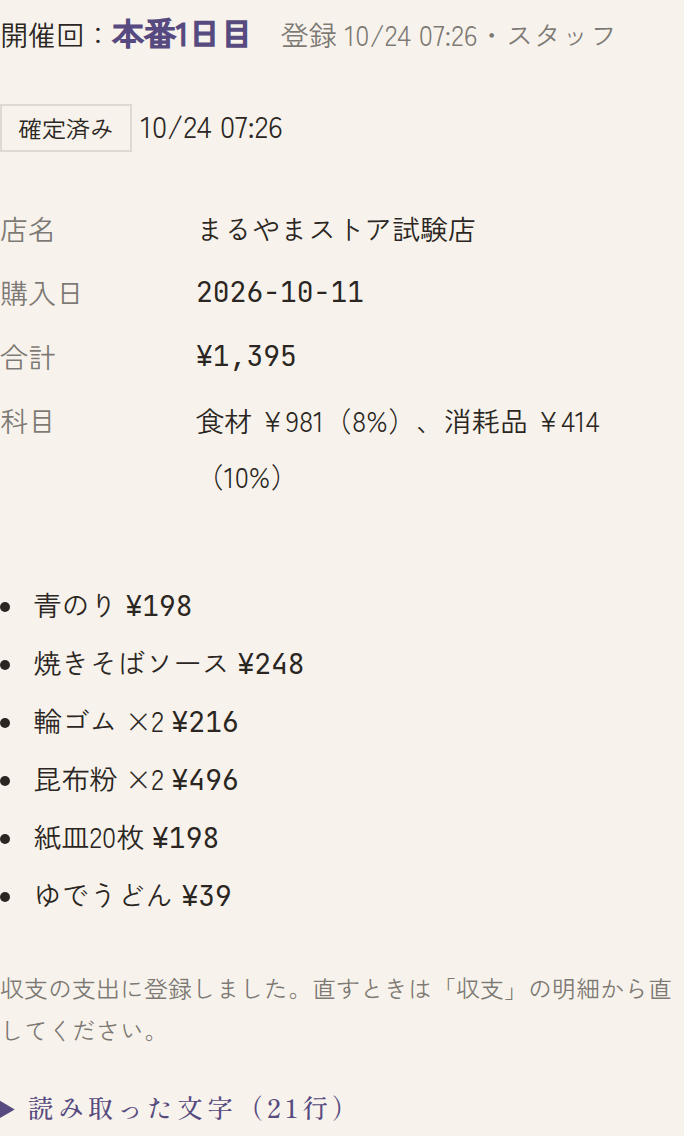
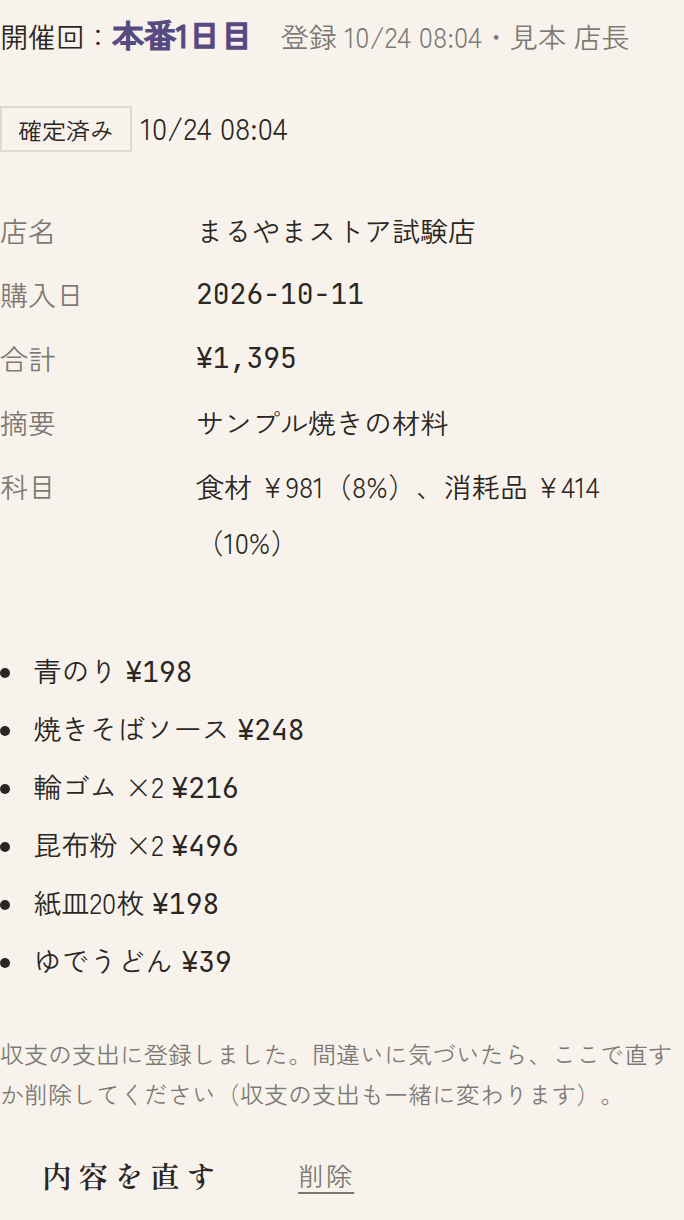
マニュアル: 確定したレシートをレシートの画面で直す・消す手順にする
- receipts.html に「確定したレシートを直す・消す」（#fix）を足し、確定済みの画面を撮り直す・直す欄の画面を足す
- よくある質問・収支の画面の「レシートの支出は収支の明細から直す」を、レシートの画面で直す手順に変える

diff --git a/public/manual/faq.html b/public/manual/faq.html
@@ -29,7 +29,7 @@
     <summary>練習で登録した支出は、学校に出す書類に入りますか？</summary>
     <div>
       <p><strong>入りません。</strong>練習の開催回に入れた支出・収入とレシートは、収支報告（本番の合計）にも、Excel・ZIP にも入りません。</p>
-      <p>練習のときに買ったものでも、本番で使う材料なら、本番の開催回を選んで登録してください。練習の開催回を選んで登録してしまったときは、収支の明細で消して、本番の開催回で入れ直します（レシートは店長に相談してください）。</p>
+      <p>練習のときに買ったものでも、本番で使う材料なら、本番の開催回を選んで登録してください。練習の開催回を選んで登録してしまったときは、手で入れた支出は収支の明細で消して本番の開催回で入れ直し、レシートはレシートの画面で削除して、本番の開催回を選んで送り直します（→ <a href="receipts.html#fix">確定したレシートを直す・消す</a>）。</p>
     </div>
   </details>
   <details id="q-day" open>
@@ -42,10 +42,10 @@
   <details id="q-fix" open>
     <summary>間違えて確定したレシートは直せますか？</summary>
     <div>
-      <p><strong>直せます。</strong>確定したレシートそのものは画面で直せませんが、確定すると収支の支出になっているので、<strong>収支の明細から直します</strong>（→ <a href="ledger.html#edit">直す・消す</a>）。</p>
+      <p><strong>直せます。</strong>レシートの画面でそのレシートを開いて直します（→ <a href="receipts.html#fix">確定したレシートを直す・消す</a>）。収支の支出も一緒に変わります。</p>
       <ul>
-        <li><strong>金額・科目が違う</strong>: 収支の明細で、そのレシートの支出（摘要に店名が入っています）の <span class="ui">直す</span> を押して直します。</li>
-        <li><strong>登録すべきでなかった</strong>（二重に登録したなど）: 収支の明細で、そのレシートの支出を <span class="ui">削除</span> します。税率ごとに分けたレシートは、行ごとに支出があるので、すべて消してください。</li>
+        <li><strong>金額・科目・店名などが違う</strong>: <span class="ui">内容を直す</span> を押して直し、<span class="ui">直した内容で保存</span>。</li>
+        <li><strong>登録すべきでなかった</strong>（二重に登録したなど）: <span class="ui">削除</span>。収支の支出も一緒に消えます（税率ごとに分けた分もすべて）。</li>
       </ul>
       <p>受け付けを締め切った開催回は直せないので、運営に連絡してください。</p>
     </div>

diff --git a/public/manual/receipts.html b/public/manual/receipts.html
@@ -177,10 +177,24 @@
   <h2>確定する</h2>
   <p>ぜんぶ確かめたら <span class="ui">確定して収支に登録</span> を押します。「確定し、収支の支出に登録しました。」と出たら完了です。</p>
   <figure class="phone">
-    <a href="img/m-receipt-confirmed.png"><img src="img/m-receipt-confirmed.png" width="684" height="1136" alt="確定済みのレシート。店名、購入日、合計、科目（食材と消耗品の内訳）、品目" loading="lazy"></a>
+    <a href="img/m-receipt-confirmed.png"><img src="img/m-receipt-confirmed.png" width="684" height="1220" alt="確定済みのレシート。店名、購入日、合計、科目（食材と消耗品の内訳）、品目" loading="lazy"></a>
     <figcaption>確定したレシート</figcaption>
   </figure>
-  <p>確定したレシートは、もう画面では直せません。金額や科目を直すときは、収支の明細から直します（→ <a href="faq.html#q-fix">よくある質問</a>）。</p>
+</section>
+
+<section id="fix">
+  <h2>確定したレシートを直す・消す</h2>
+  <p>確定したあとで間違いに気づいたら、そのレシートを開いて直します。収支の支出も一緒に変わるので、収支の画面で直す必要はありません。</p>
+  <ul>
+    <li><strong>直す</strong>: <span class="ui">内容を直す</span> を押すと、確定した内容（店名・購入日・合計・摘要・内訳・品目）が入った欄が出ます。直して <span class="ui">直した内容で保存</span>（やめるときは <span class="ui">やめる</span>）。</li>
+    <li><strong>消す</strong>（二重に登録した、練習の開催回で送ってしまった など）: <span class="ui">削除</span> を押します。確認に、一緒に消える収支の支出の件数と金額が出るので、確かめて OK を押します。</li>
+  </ul>
+  <figure class="phone">
+    <a href="img/m-receipt-edit.png"><img src="img/m-receipt-edit.png" width="684" height="980" alt="確定した内容を直す欄。支出の内訳の行と、直した内容で保存・やめるのボタン" loading="lazy"></a>
+    <figcaption>確定した内容を直すとき</figcaption>
+  </figure>
+  <div class="note"><span class="note-title">収支の明細で直した分は置き換わります</span><p>保存すると、このレシートの収支の支出を、直した内訳で作り直します。収支の明細でレシートの支出を直していたときは、その分もこの内容に置き換わります。レシートの支出は、レシートの画面で直してください。</p></div>
+  <p>受け付けを締め切った開催回のレシートは、直すことも消すこともできません。運営に連絡してください。</p>
 </section>
 </main>
 

diff --git a/public/manual/ledger.html b/public/manual/ledger.html
@@ -86,7 +86,7 @@
   <ul>
     <li><strong>直す</strong>: 明細の <span class="ui">直す</span> を押すと、上の欄が「収支を直す」になります。直して <span class="ui">保存する</span>（やめるときは <span class="ui">やめる</span>）。</li>
     <li><strong>消す</strong>: <span class="ui">削除</span> を押し、確認で OK を押します。</li>
-    <li>レシートから登録した支出も、ここで直せます。税率ごとに分けたレシートは、摘要に「（8%の分）」のように出ます。</li>
+    <li>レシートから登録した支出は、レシートの画面で直してください（→ <a href="receipts.html#fix">確定したレシートを直す・消す</a>）。ここで直しても、あとでレシートを直すと、レシートの内容に置き換わります。税率ごとに分けたレシートは、摘要に「（8%の分）」のように出ます。</li>
     <li>受け付けを締め切った開催回は、見るだけで直せません。直したいときは運営に連絡してください。</li>
   </ul>
   <figure>

diff --git a/public/manual/index.html b/public/manual/index.html
@@ -44,7 +44,7 @@
     <li><a href="sales.html">売上の画面</a><span class="toc-note">数える日・待ち時間・ロス・売り切れの記録</span></li>
     <li><a href="ledger.html">収支の画面</a><span class="toc-note">収支報告・手入力・現金照合・廃棄</span></li>
     <li><a href="outlook.html">損益と見込み・目標利益</a><span class="toc-note">商品の画面の上の2行</span></li>
-    <li><a href="receipts.html#manager">レシートの確認と確定</a><span class="toc-note">税率ごとの下書き</span></li>
+    <li><a href="receipts.html#manager">レシートの確認と確定</a><span class="toc-note">税率ごとの下書き・確定後に直す</span></li>
     <li><a href="receipt-search.html">レシートの検索と照合チェック</a></li>
     <li><a href="submit.html">学校に出す書類（Excel・ZIP）</a></li>
     <li class="toc-part">スタッフ</li>
